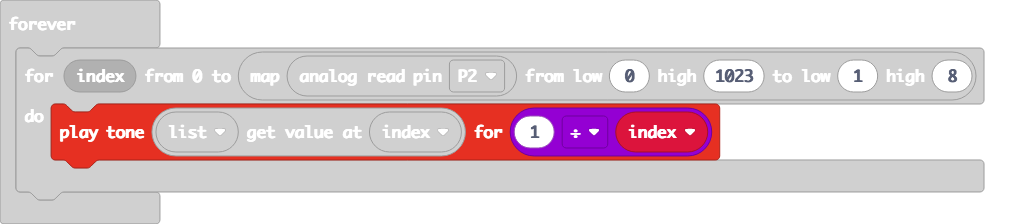
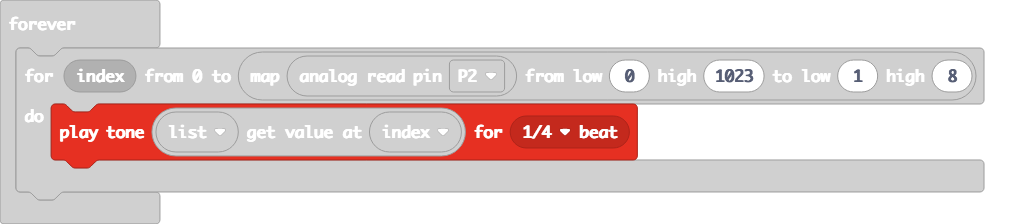
Kind of like Phil Glass...

Changed region(s): [[0.4942, 0.4375, 0.7104, 0.7188]]

diff --git a/main.ts b/main.ts
@@ -1,6 +1,6 @@
 let list = [262, 330, 392, 523, 494, 440, 392, 330]
 basic.forever(function () {
     for (let index = 0; index <= Math.map(pins.analogReadPin(AnalogPin.P2), 0, 1023, 1, 8); index++) {
-        music.playTone(list[index], 1 / index)
+        music.playTone(list[index], music.beat(BeatFraction.Quarter))
     }
 })
